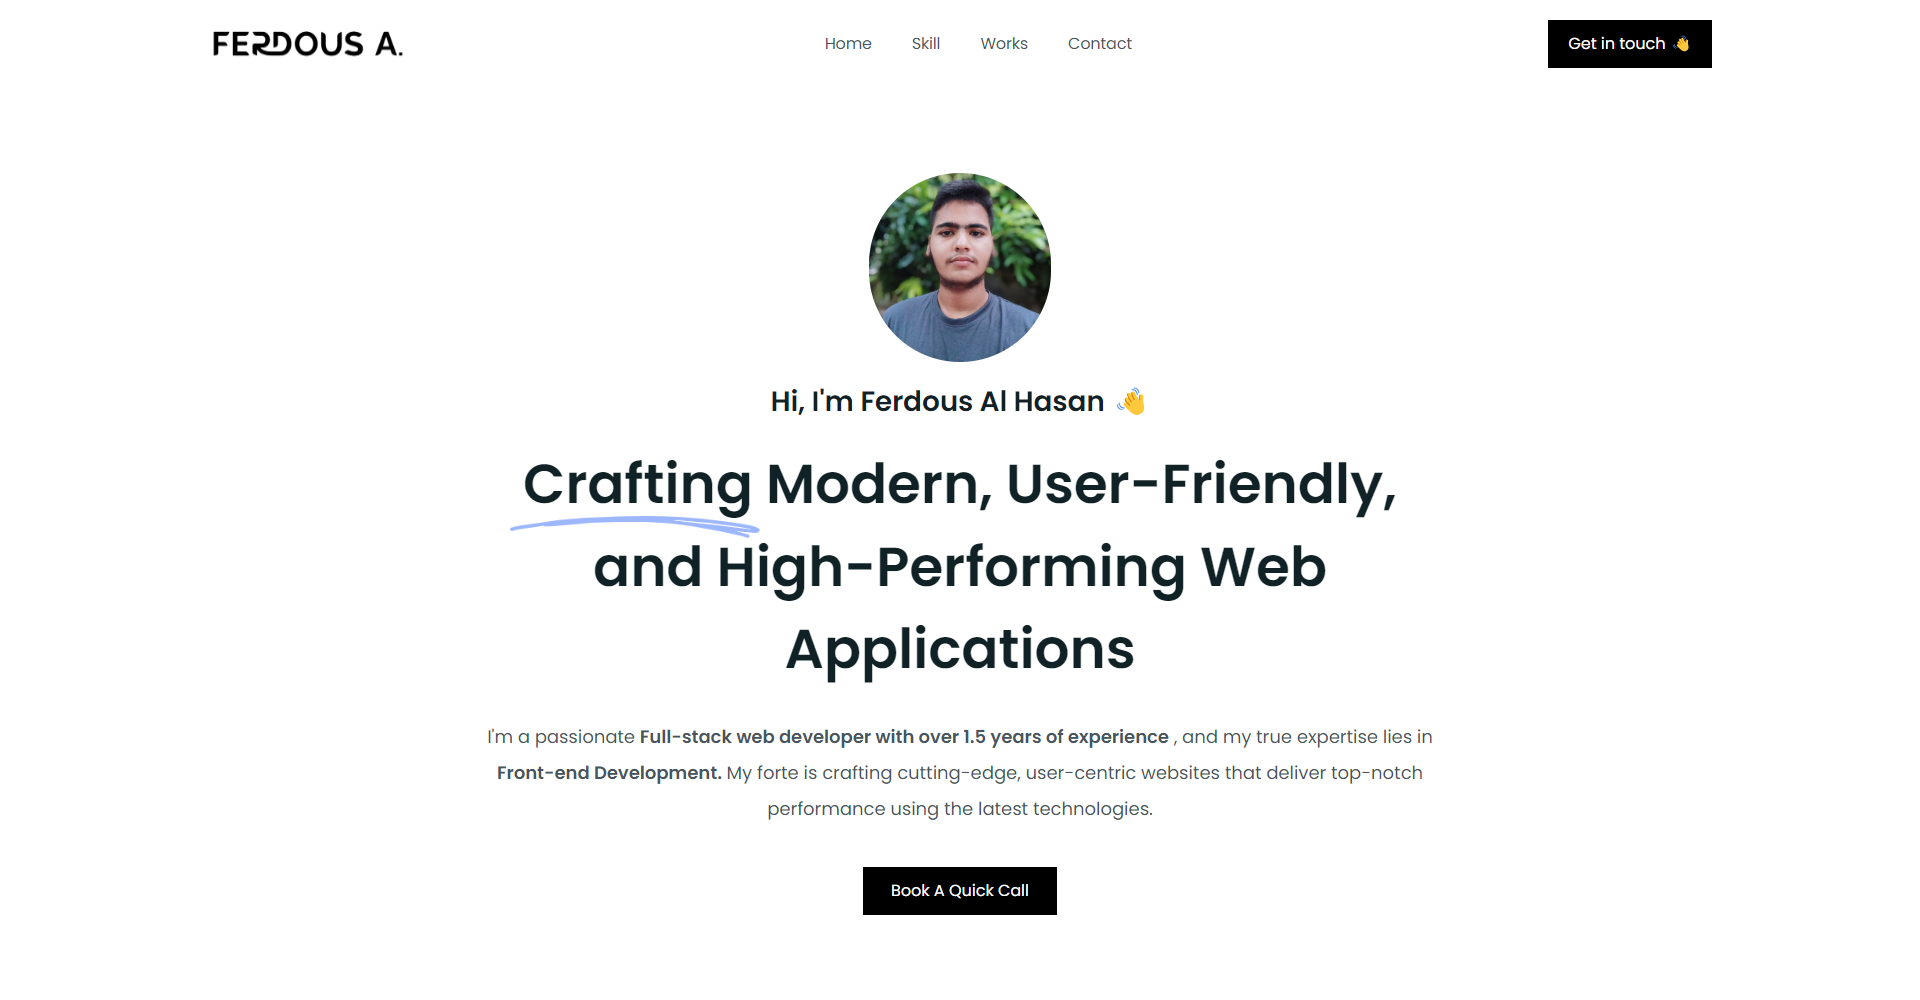
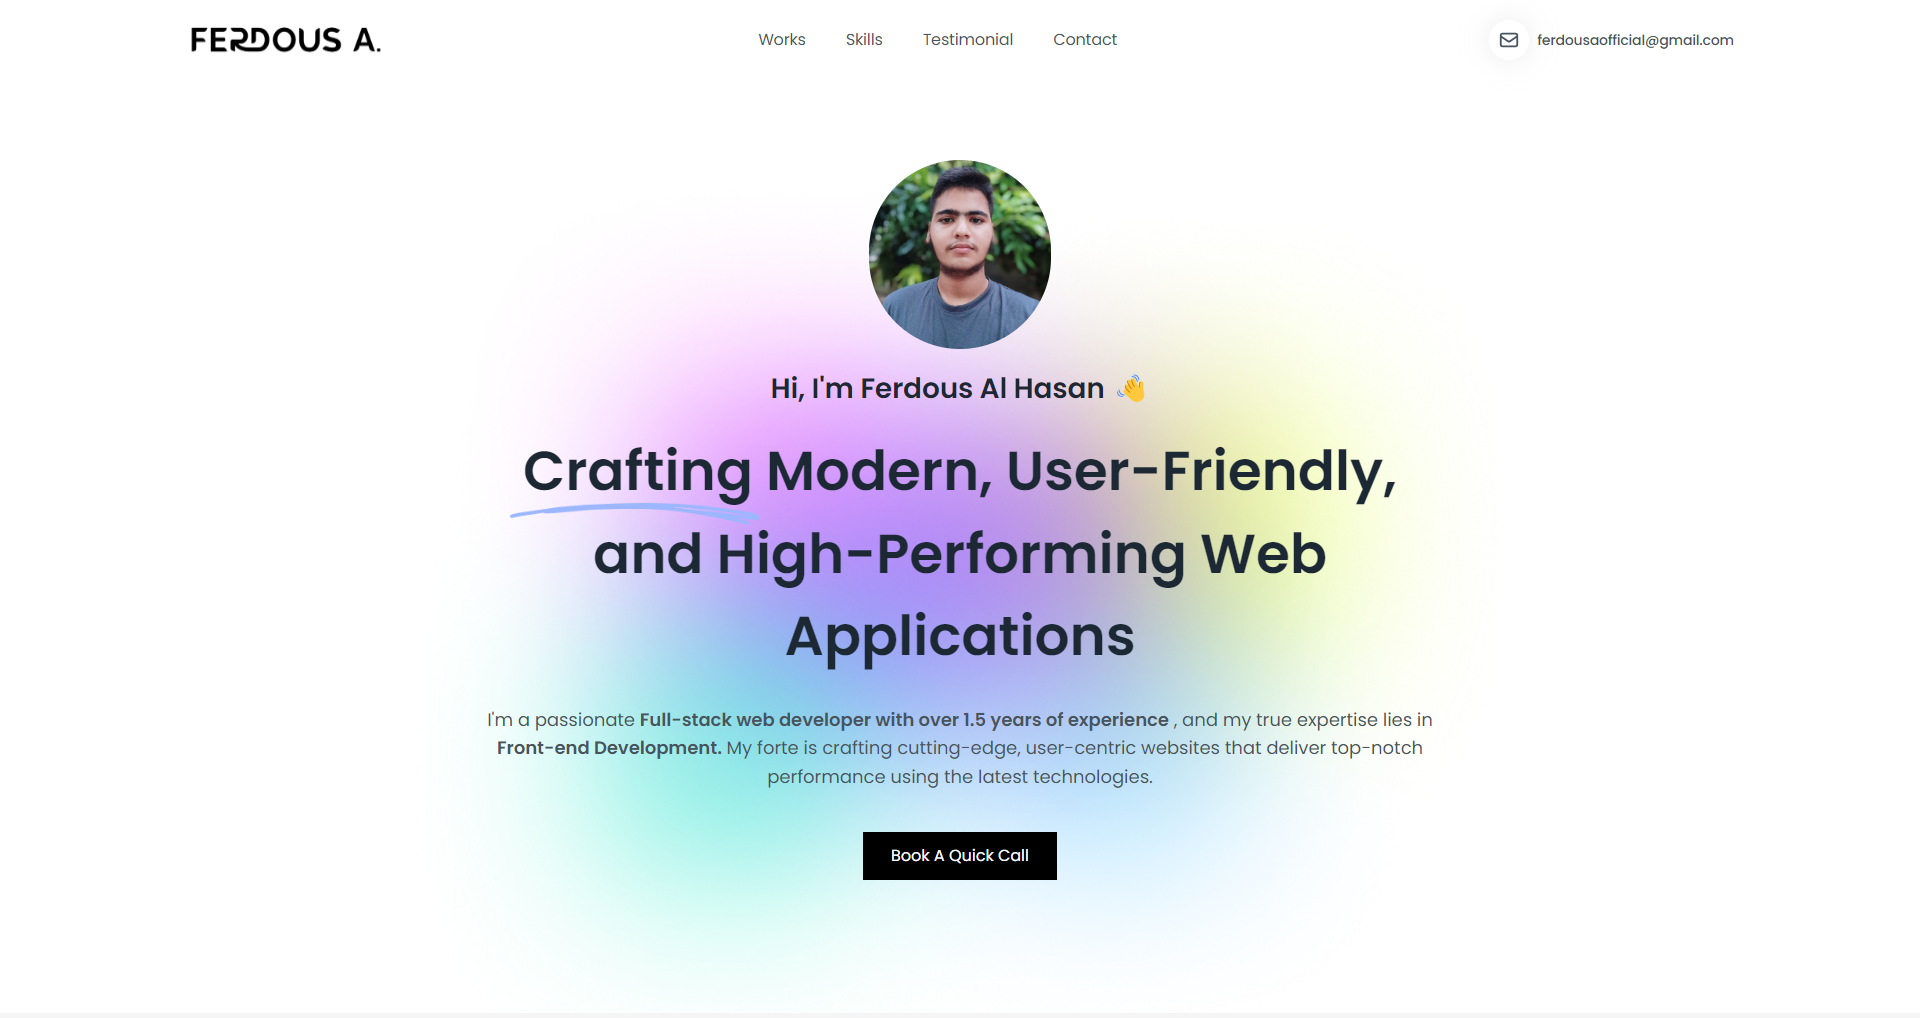
change the UI

diff --git a/src/app/(default)/Works/Works.tsx b/src/app/(default)/Works/Works.tsx
@@ -1,11 +1,35 @@
+import Button from "@/common/components/shared/Button";
 import Card from "@/common/components/shared/Card";
+import SkillTag from "@/common/components/ui/SkillTag";
+import Image from "next/image";
 
 const Works: React.FC = () => {
   return (
-    <div className="bg-[#f5f5f5]">
-      {/* <div className="container">
-        <Card title=" " body="" />
-      </div> */}
+    <div className="bg-[#f5f5f5] pb-[50px]">
+      <div className="container">
+        <h3 className="pb-5 lg:text-[35px] md:text-[32px] text-[30px] font-semibold">
+          Some Things I’ve Built
+        </h3>
+        <Card
+          title="BookStore "
+          subtitle=" A platform where you can purchase any book and read its summary"
+          body={
+            <div>
+              <div className="flex items-center gap-5 pb-5">
+                <SkillTag name="Next Js" />
+                <SkillTag name="Type Js" />
+                <SkillTag name="Tailwind Css" />
+              </div>
+              <Button children={"View Live"} classname={"px-[40px]"} />
+            </div>
+          }
+          colBody={
+            <div>
+              <Image src={'/public'} />
+            </div>
+          }
+        />
+      </div>
     </div>
   );
 };

diff --git a/src/app/(default)/Contact/Contact.tsx b/src/app/(default)/Contact/Contact.tsx
@@ -4,12 +4,7 @@ import SectionTitle from "@/common/components/shared/SectionTitle";
 const Contact: React.FC = () => {
   return (
     <div className="text-center  relative" id="contact">
-      <img
-        src="/images/Vector.png"
-        alt=""
-        className="absolute
-       w-full -z-10  "
-      />
+   
       <div className="container pt-[50px] md:pb-[80px] pb-[30px] space-y-[12.5px]">
         <SectionTitle
           title="Get In Touch"

diff --git a/src/app/(default)/Hero/Hero.tsx b/src/app/(default)/Hero/Hero.tsx
@@ -7,11 +7,6 @@ const Hero: React.FC = () => {
     <div className="text-center py-[80px] h-screen ">
       <div className="container">
         <div className="relative">
-          <img
-            src="images/bg-victor-2.png"
-            alt=""
-            className="absolute w-screen -z-10  2xl:top-0 xl:bottom: xl:top-0 sm:top-[5.5rem] bottom-[38%] "
-          />
           <Header />
           <Info />
           <Button

diff --git a/src/app/(default)/page.tsx b/src/app/(default)/page.tsx
@@ -21,7 +21,7 @@ export default function Home() {
         </div>
       </div>
 
-      <Works />
+      {/* <Works /> */}
       <Testimonial />
       <Contact />
     </>
